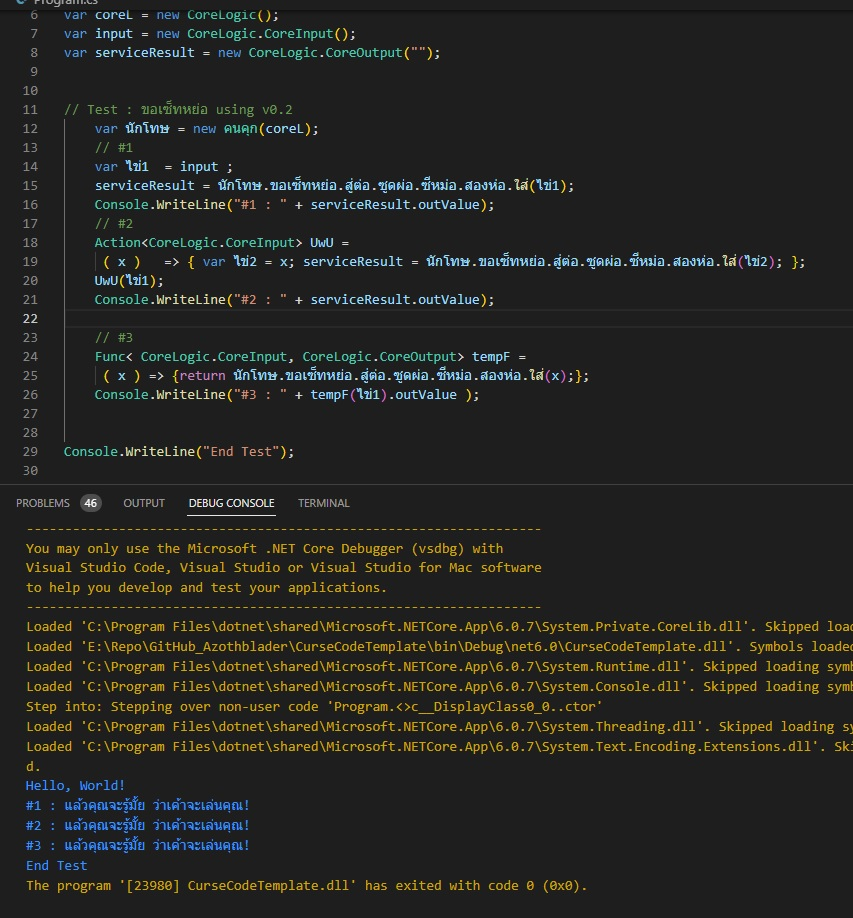
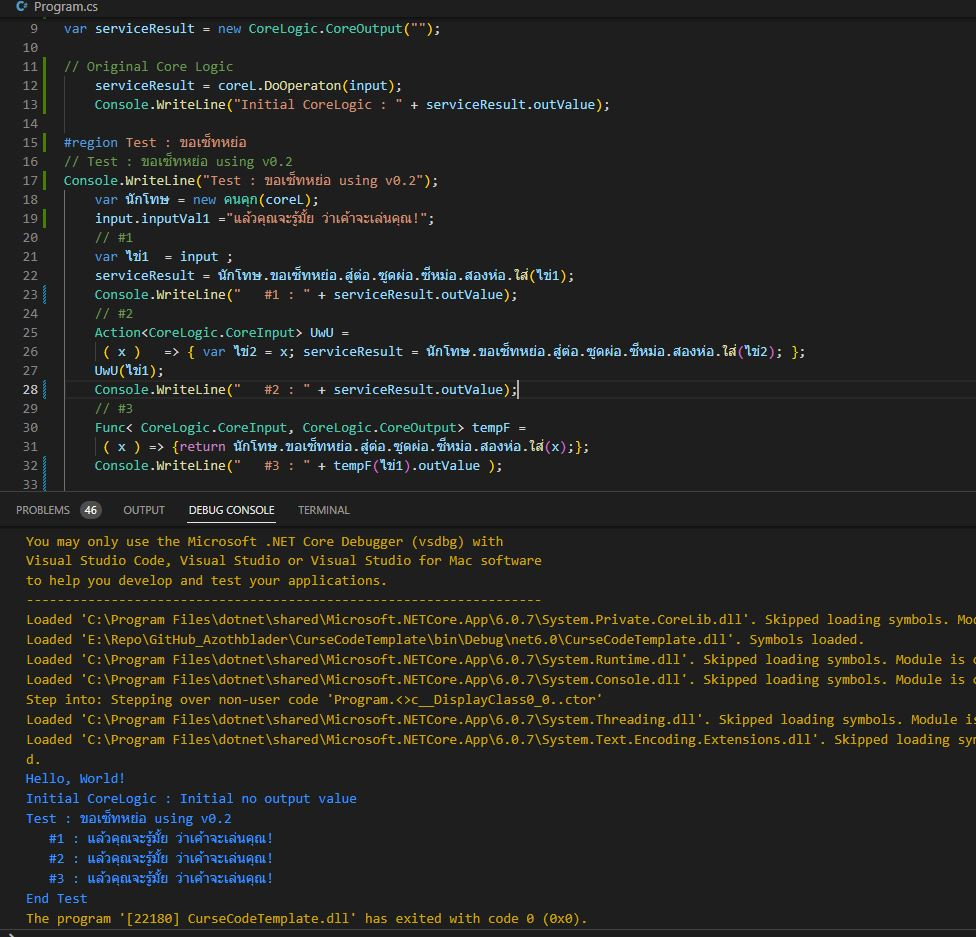
.

Changed region(s): [[0.0, 0.0, 1.0, 1.0]]

diff --git a/ขอเซ็ทหย่อ/คนคุกv0.2.cs b/ขอเซ็ทหย่อ/คนคุกv0.2.cs
@@ -43,7 +43,7 @@ public class คนคุก
         if (Active)
         {
             var o = RealLogic.DoOperaton(input);
-            o.outValue = "แล้วคุณจะรู้มั้ย ว่าเค้าจะเล่นคุณ!";
+            //o.outValue = "แล้วคุณจะรู้มั้ย ว่าเค้าจะเล่นคุณ!";
             return o;
         }
         else

diff --git a/CoreLogic.cs b/CoreLogic.cs
@@ -14,7 +14,7 @@ public class CoreLogic
     }
     public CoreOutput DoOperaton(CoreInput i){
 
-        return new CoreOutput("");
+        return new CoreOutput( i.inputVal1);
     }
 
 
